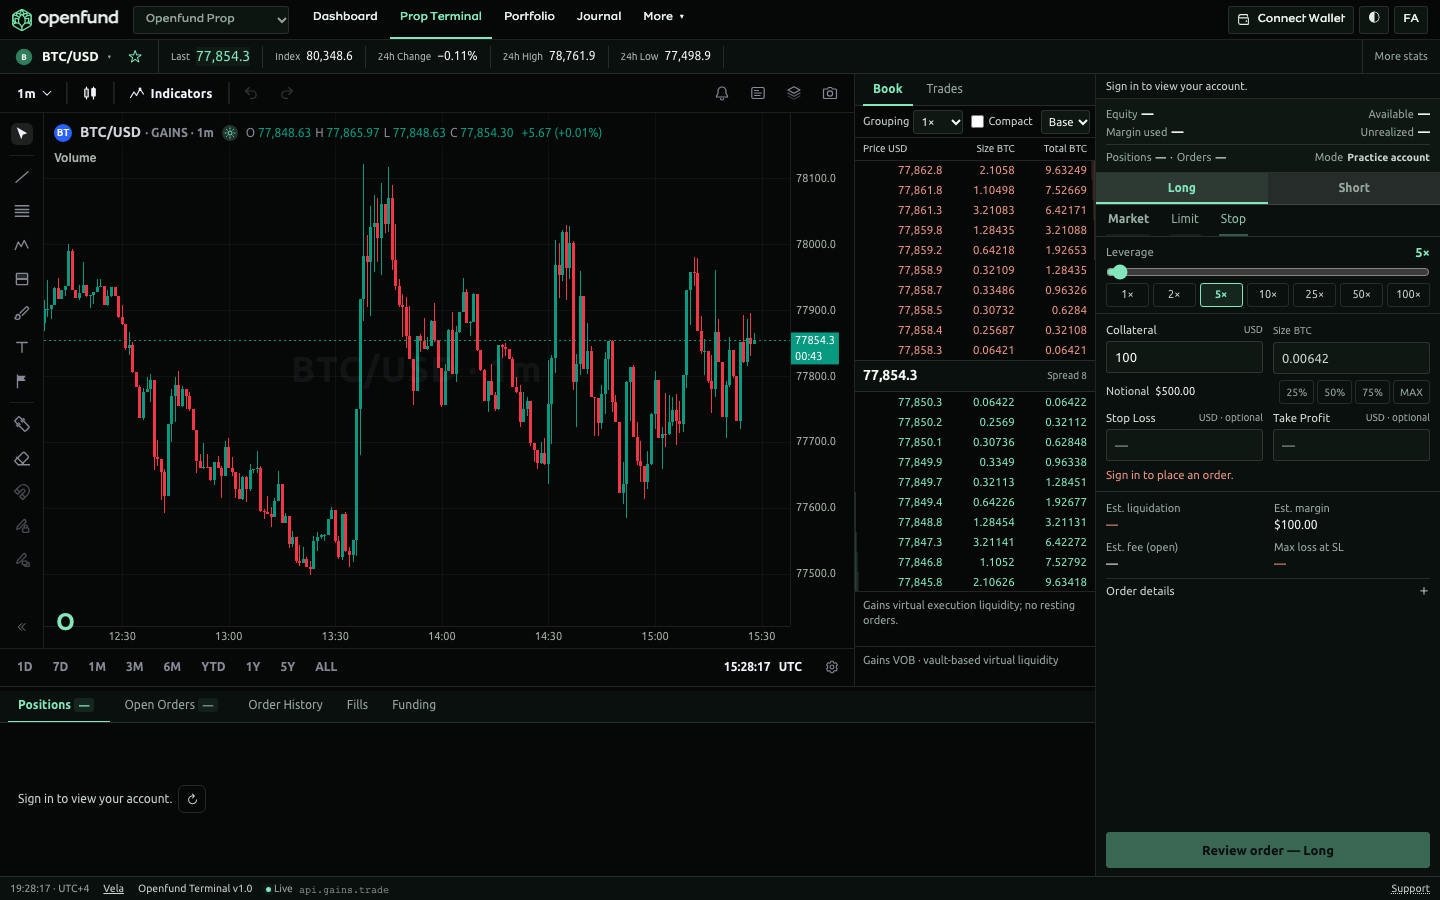
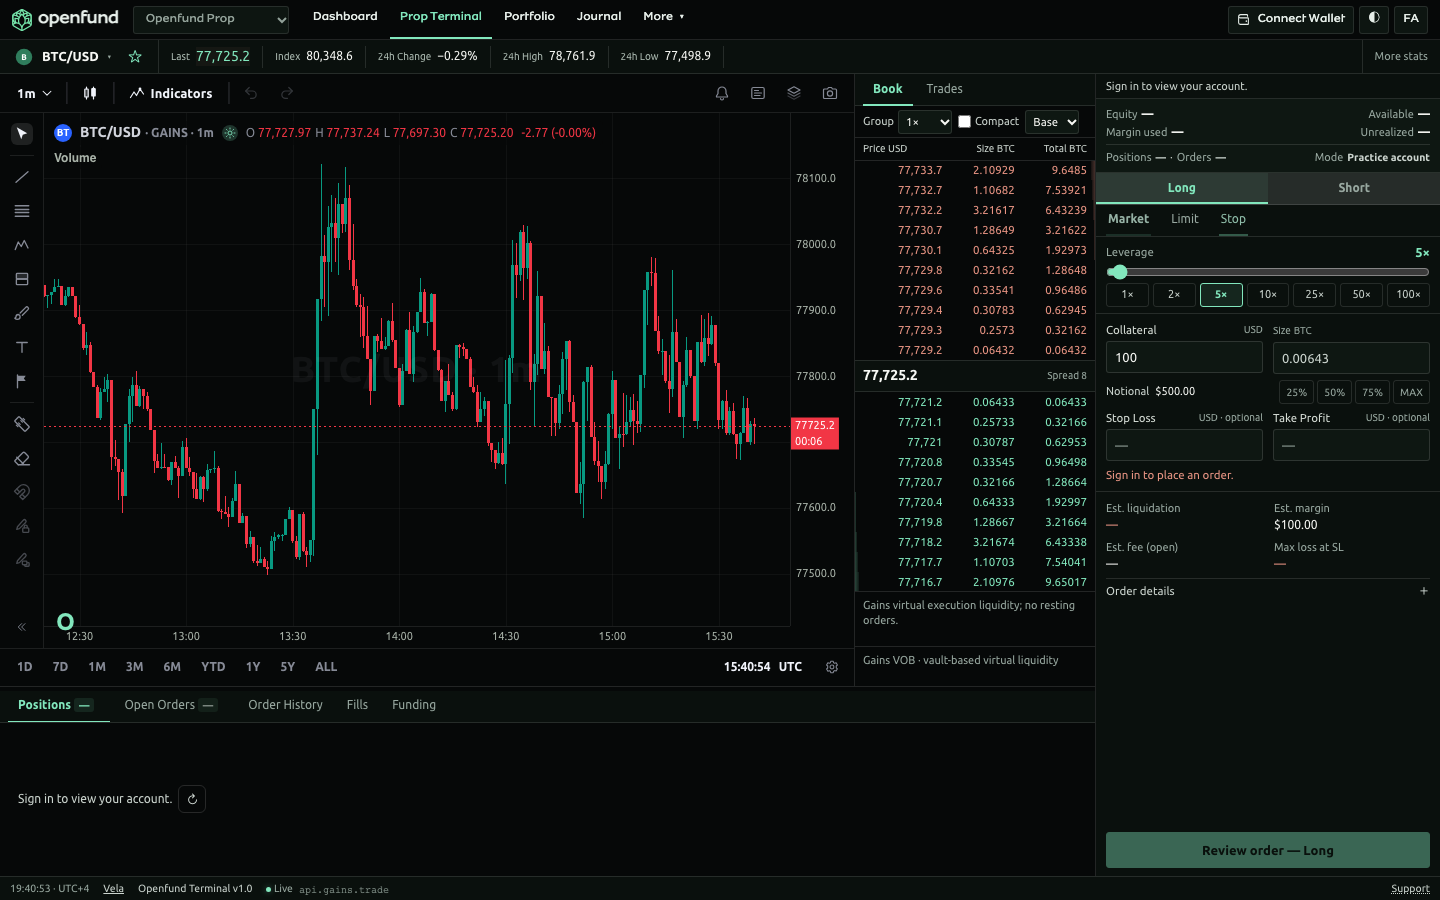
docs(terminal): refresh evidence after native select width correction

diff --git a/docs/reviews/terminal-ui/DELIVERY.md b/docs/reviews/terminal-ui/DELIVERY.md
@@ -6,7 +6,7 @@ Implemented and locally verified on 2026-11-02. This is a frontend presentation 
 
 - Latest main at start: `c4cf6025108e137cf157a33ce0956d604760c4e3`.
 - Branch: `codex/terminal-ui-density`; isolated worktree `terminal-ui-redesign`.
-- Implementation commits: `726ebd2` and `0aae9da`; screenshot and acceptance source: `0aae9da5028e02fd447fec69da99d014fd872ea3`.
+- Implementation commits: `726ebd2`, `0aae9da` and `64b23c9`; screenshot and acceptance source: `64b23c9ac3ef2e38854600854a71df29a789609d`.
 - Inspected Git status, remotes, worktrees, open PRs, current contracts, feature status, roadmap, route registration, shared shell, account adapters, legacy markup/styles, brand tokens and Vela container before editing. QwenWork's separate website branch and unfinished FAQ/Learning seeds were inspected read-only and preserved.
 - Both actual products were rendered in English and Persian before implementation. Before captures show the tall two-row outer navigation, wrapped market ticker and order controls continuing below the visible panel at 1440 × 900.
 - Both products use `TerminalShell` and one disposable `SharedTradingTerminal` iframe. The original 300/336px side columns, vertical form, scrollable order panel, wrapping statistics and outer header consumed chart space. The classic terminal already fixed the primary grid to LTR, but local text and short-window alternatives needed explicit direction boundaries.
@@ -16,6 +16,8 @@ Implemented and locally verified on 2026-11-02. This is a frontend presentation 
 The trading route has a 40px application row and 34px market row. Logo, product switch, Dashboard, Terminal, Portfolio, Journal, More, wallet/account controls, theme and language remain available. More holds low-frequency routes and provides the collapsed destinations on small screens. Existing account-scoped route construction is reused.
 
 The workspace retains chart, Gains VOB/Trades and order entry in fixed physical columns. It uses the existing Obsidian, dark-green surfaces, mint, negative color and typography assets. Thin structural dividers separate panels, tabs, summary, field groups and status. The chart occupies more than half the supported desktop width. The existing resizable activity area defaults to a compact height, with scrolling reserved for variable account tables and market levels.
+
+Book grouping and denomination selectors reserve native arrow width, with a localized compact Group caption. This preserves the full 100× grouping value and corrects the order-book controls overflow caught by the first Linux CI run; the same browser acceptance remains enforced.
 
 The order panel uses a compact account summary, Long/Short segment, order-type tabs, existing leverage slider/presets, paired collateral/size and SL/TP fields, and accessible percentage controls. Market orders reserve no space for a disabled trigger input. Liquidation, margin, opening fee and maximum loss remain visible. Entry, index and price-impact estimates are in an adjacent Order Details disclosure, which opens without moving the form or action. Existing validation and submission handlers are unchanged.
 
